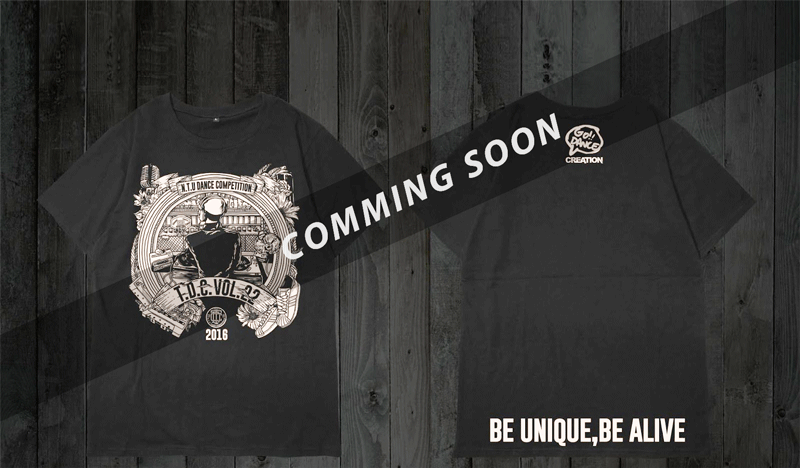
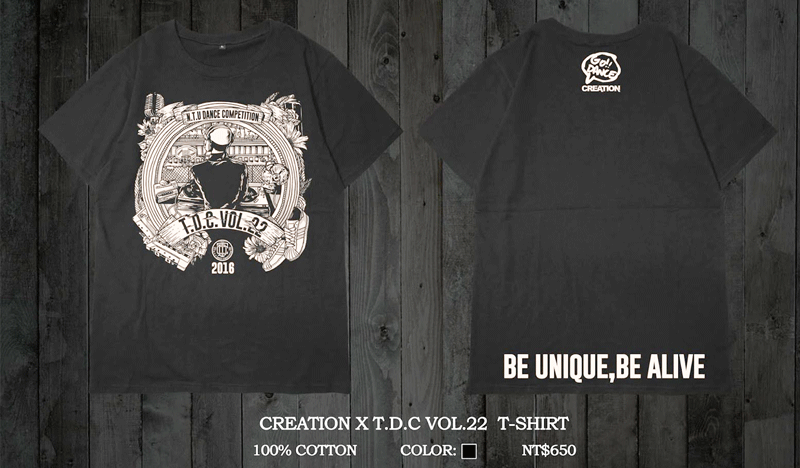
final

diff --git a/carousel/4/index.html b/carousel/4/index.html
@@ -1,0 +1,88 @@
+
+<!DOCTYPE html>
+<html lang="zh-TW">
+	<head>
+		<meta charset="UTF-8" /> 
+		<title>NTUTDC 初賽名單</title>
+		<link rel="stylesheet" href="../../css/bootstrap.css" />
+		<link rel="stylesheet" href="../../NTUPDC.css" />
+	</head>
+	<body>
+		<div class="topBar">
+			<a href="../../index.html" style="cursor: pointer;"><img class="logo" src="../../logo.png"></a>
+			<div class="btnBar">
+				<li><div class="btn"><b>關於我們</b></div>
+					<ul>
+						<a href="../../about/found/index.html" style="cursor: pointer"><li>成立緣起</li></a>
+						<a href="../../about/team/ours/index.html"><li>工作團隊</li></a>
+						<a href="../../about/judge/index.html"><li>評審介紹</li></a>
+					</ul>
+				</li>
+				<li><div class="btn"><b>活動資訊</b></div>
+					<ul>
+						<a href="../../announce/index.html"><li>大賽公告</li></a>
+						<li>決賽名單</li>
+						<a href="../../info/merchandise/index.html" style="cursor: pointer;"><li>紀念商品</li></a>
+					</ul>
+				</li>
+				<li><a href="../../signUp/index.html" style="cursor: pointer;"><div class="btn"><b>報名資訊</b></div></a></li>
+				<li><a href="../../history/index.html" style="cursor: pointer;"><div class="btn"><b>歷屆回顧</b></div></a></li>
+				<li><div class="btn">合作單位</div></li>
+			</div>
+		</div>
+		<img style="position: fixed; top: 0;" class="black" src="../../blackFixed.png">
+
+		<!--<img class="backgroundDancer" src="../../background/1.png">-->
+		<div class="signUp found" style="background: url('background.jpg')">
+			<div class="wordDiv" style="padding-bottom: 100px;">
+				<div class="word">
+				<h1>第二波紀念T預購</h1>
+				<br>
+				<img src="../../Tshirt.png" style="width: 500px;">
+				<p>
+<br>
+台大盃最後一波紀念T感恩大回饋<br>
+最後一波！錯過不再！<br>
+第一波台大盃紀念T預購以及抽獎活動十分成功<br>
+為了感謝大家的支持<br>
+加之近日有許多人私訊粉專說表單已關閉無法購買紀念T<br>
+台大盃工作團隊決定<br>
+加開第二波紀念T預購！！！！！<br>
+除了跟上一波一樣<br>
+基本的「湊滿五件免運」以及「滿十件每件折價五十元」之外<br>
+更令人期待的是，本波預購連帶推出『好康連連送』！！！！<br>
+<a href="https://www.facebook.com/ntupdctdc/?fref=ts">台大盃熱舞大賽粉絲專頁</a><br>
+<br>
+第一送：分享就抽紀念T<br>
+即日起至105年3／18<br>
+凡符合抽獎步驟者 <br>
+台大盃將從中抽出三位幸運兒<br>
+送你本次CREATION聯名專屬紀念T(尺寸任選)<br>
+<br>
+抽獎步驟如下：<br>
+１．按"台大盃熱舞大賽"粉絲專頁讚<br>
+２．在此篇貼文底下留言ＴＡＧ三位朋友<br>
+３．公開分享本篇貼文，並寫下：＂我要抽台大盃熱舞大賽紀念T！＂<br>
+提醒大家貼文一定要設定成“公開”才符合抽獎資格唷！<br>
+我們預計將在105年3／20公布中獎名單<br>
+ <br>
+第二送：買就能抽名牌鞋<br>
+工作團隊將於這波預購的所有預購人中<br>
+抽出「一位」幸運者<br>
+送你一雙Adidas鞋！！！<br>
+送你一雙Adidas鞋！！！<br>
+送你一雙Adidas鞋！！！（市值2500元）<br>
+還不快動動手指，趕緊<a href="http://goo.gl/forms/qA5f4MbnzB">填表訂購</a>！
+
+				</p>
+				</div>
+			</div>
+		</div>
+		
+		<!--
+		<div class="footer">
+		</div>
+		-->
+		
+	</body>
+</html>

diff --git a/announce/index.html b/announce/index.html
@@ -94,6 +94,15 @@
 
 		<div class="container announce">
 			<div class="row">
+				<a href="../carousel/4/index.html">
+					<div class="col-md-4 thumb">
+						<img src="../carousel/5.png">
+						<h1>第二波紀念T預購</h1>
+						<p>
+							最後一波！錯過不再！第一波台大盃紀念T預購以及抽獎活動十分成功，為了感謝大家的支持，加之近日有許多人私訊粉專...
+						</p>
+					</div>
+				</a>
 				<a href="../carousel/3/index.html">
 					<div class="col-md-4 thumb">
 						<img src="../carousel/9.png">
@@ -113,6 +122,8 @@
 						</p>
 					</div>
 				</a>
+			</div>
+			<div class="row">
 				<a href="../carousel/1/index.html">
 					<div class="col-md-4 thumb">
 						<img src="../carousel/7.png">
@@ -122,8 +133,6 @@
 						</p>
 					</div>
 				</a>
-			</div>
-			<div class="row">
 				<a href="../carousel/congratulation/index.html">
 					<div class="col-md-4 thumb">
 						<img src="../carousel/6.png">
@@ -142,6 +151,8 @@
 						</p>
 					</div>
 				</a>
+			</div>
+			<div class="row">
 				<a href="../carousel/team/index.html">
 					<div class="col-md-4 thumb">
 						<img src="../carousel/2.png">
@@ -151,8 +162,6 @@
 						</p>
 					</div>
 				</a>
-			</div>
-			<div class="row">
 				<a href="../carousel/QA/index.html">
 					<div class="col-md-4 thumb">
 						<img src="../carousel/3.png">
@@ -165,13 +174,6 @@
 				<div class="col-md-4 thumb">
 					<img src="../carousel/4.png">
 					<h1>決賽名單</h1>
-					<p>
-						Comming soon...
-					</p>
-				</div>
-				<div class="col-md-4 thumb">
-					<img src="../carousel/5.png">
-					<h1>第二波紀念T</h1>
 					<p>
 						Comming soon...
 					</p>

diff --git a/signUp/index.html b/signUp/index.html
@@ -64,9 +64,9 @@
 
 					<h1>評分標準：</h1>
 					<ul>
-						<li>舞50%（舞技、隊形、整齊度、默契）</li>
-						<li>創意30%（原創性、造型、音樂剪接）</li>
-						<li>態度20%（表情、舞台魅力）</li>
+						<li>舞50%（舞技、整齊度、默契）</li>
+						<li>創意30%（原創性、隊形、音樂剪接）</li>
+						<li>態度20%（造型、表情、舞台魅力）</li>
 					</ul>
 					<br>
 					 

diff --git a/about/judge/index.html b/about/judge/index.html
@@ -51,8 +51,7 @@
 地表上最會跳Hip Hop的男人<br>
 全世界Hip Hop第一把交椅<br>
 Michael Jackson, Mariah Carey, Will Smith 等編舞老師、舞者<br>
-會rap<br>
-只吃雞肉
+會rap
 							</p>
 					</div>
 					<div style="height: 450px; width: 100%;">

diff --git a/NTUPDC.css b/NTUPDC.css
@@ -403,7 +403,8 @@ h1 {
 }
 
 .found .wordDiv .word h1 {
-	font-size: 28px;
+	font-size: 32px;
+	margin-bottom: 15px;
 }
 
 /* ours */
